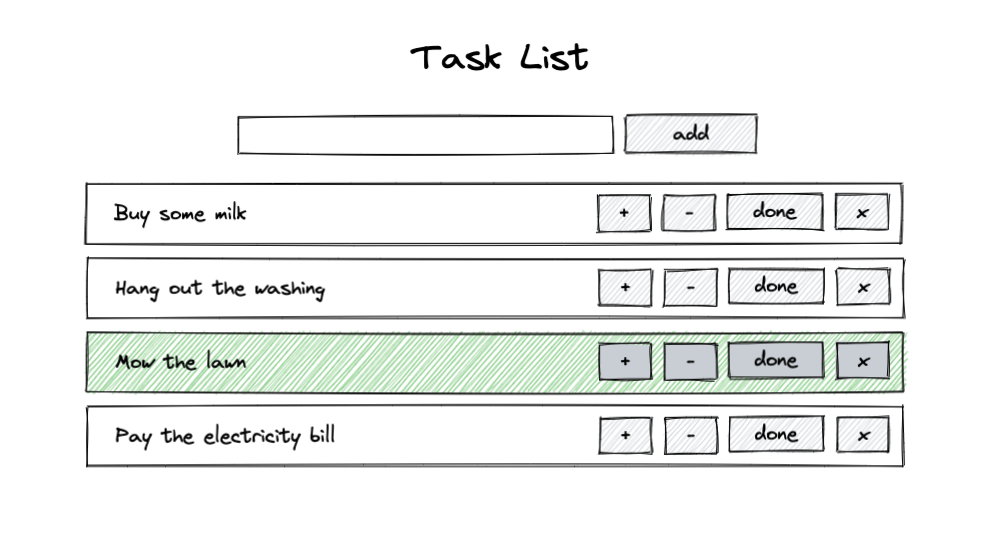
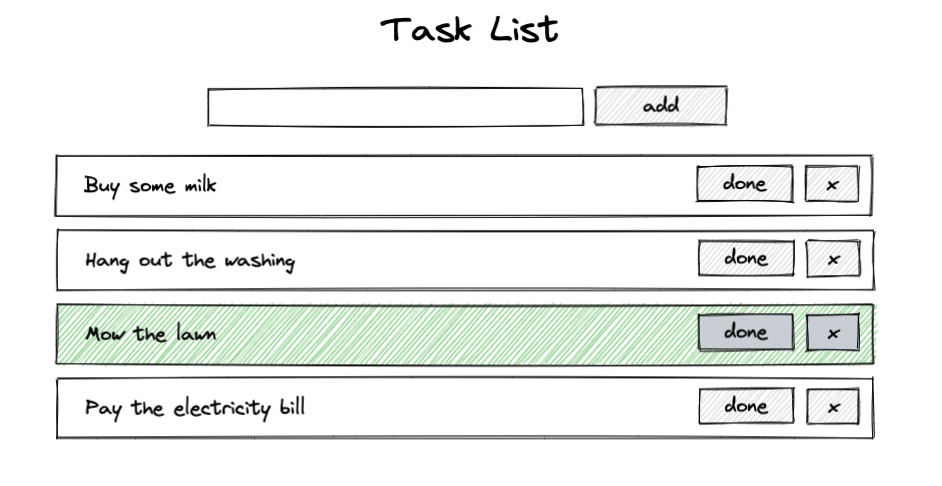
Removed priority and updated api

Changed region(s): [[0.0308, 0.1543, 0.9544, 0.9259], [0.4002, 0.0309, 0.6157, 0.1235]]

diff --git a/README.md b/README.md
@@ -1,19 +1,18 @@
 # Scenario
 
-Build a task list that will perform the following operations:
+Build a task list per the UI design that will perform the following operations:
 
-* Load and save items to an API. Data should persist refreshing.
-* Add tasks with name
-* Remove tasks
-* Mark tasks as "done". Tasks that are "done" should be highlighted.
-* Reorder tasks
+* Interact with API to
+  * List all items
+  * Add tasks with name
+  * Mark tasks as "done". Tasks that are "done" should be highlighted.
+  * Remove tasks
 
 ## UI
 ![task list](tasklist.png)
 
 ## API
-`GET /list`
-Lists all tasks.
+`GET /list` Lists all tasks.
 ```json
 [
   {
@@ -35,8 +34,7 @@ Lists all tasks.
 ]
 ```
 
-`POST /add`
-Adds a task to the list. Tasks are given a `status: false` automatically.
+`POST /add` Adds a task to the list. Tasks are given a `status: false` automatically.
 ```json
 // request payload
 {
@@ -44,8 +42,7 @@ Adds a task to the list. Tasks are given a `status: false` automatically.
 }
 ```
 
-`POST /add`
-Appends a task to the list
+`POST /add` Appends a task to the list
 ```json
 // request payload
 {
@@ -53,8 +50,7 @@ Appends a task to the list
 }
 ```
 
-`DELETE /remove`
-Removes task at the specified index
+`DELETE /remove` Removes task at the specified index
 ```json
 // request payload
 {
@@ -62,8 +58,17 @@ Removes task at the specified index
 }
 ```
 
-`POST /insert`
-Adds a task at the specified index
+`POST /update` Updates/replaces a task at the specific index
+```json
+// request payload
+{
+  index: 1,
+  name: "Buy some milk",
+  status: false
+}
+```
+
+`POST /insert` Adds a task at the specified index
 ```json
 // request payload
 {
@@ -74,3 +79,4 @@ Adds a task at the specified index
 
 ## Reference
 * Using Fetch API - https://developer.mozilla.org/en-US/docs/Web/API/Fetch_API/Using_Fetch
+* Using Axios - https://github.com/axios/axios#example
